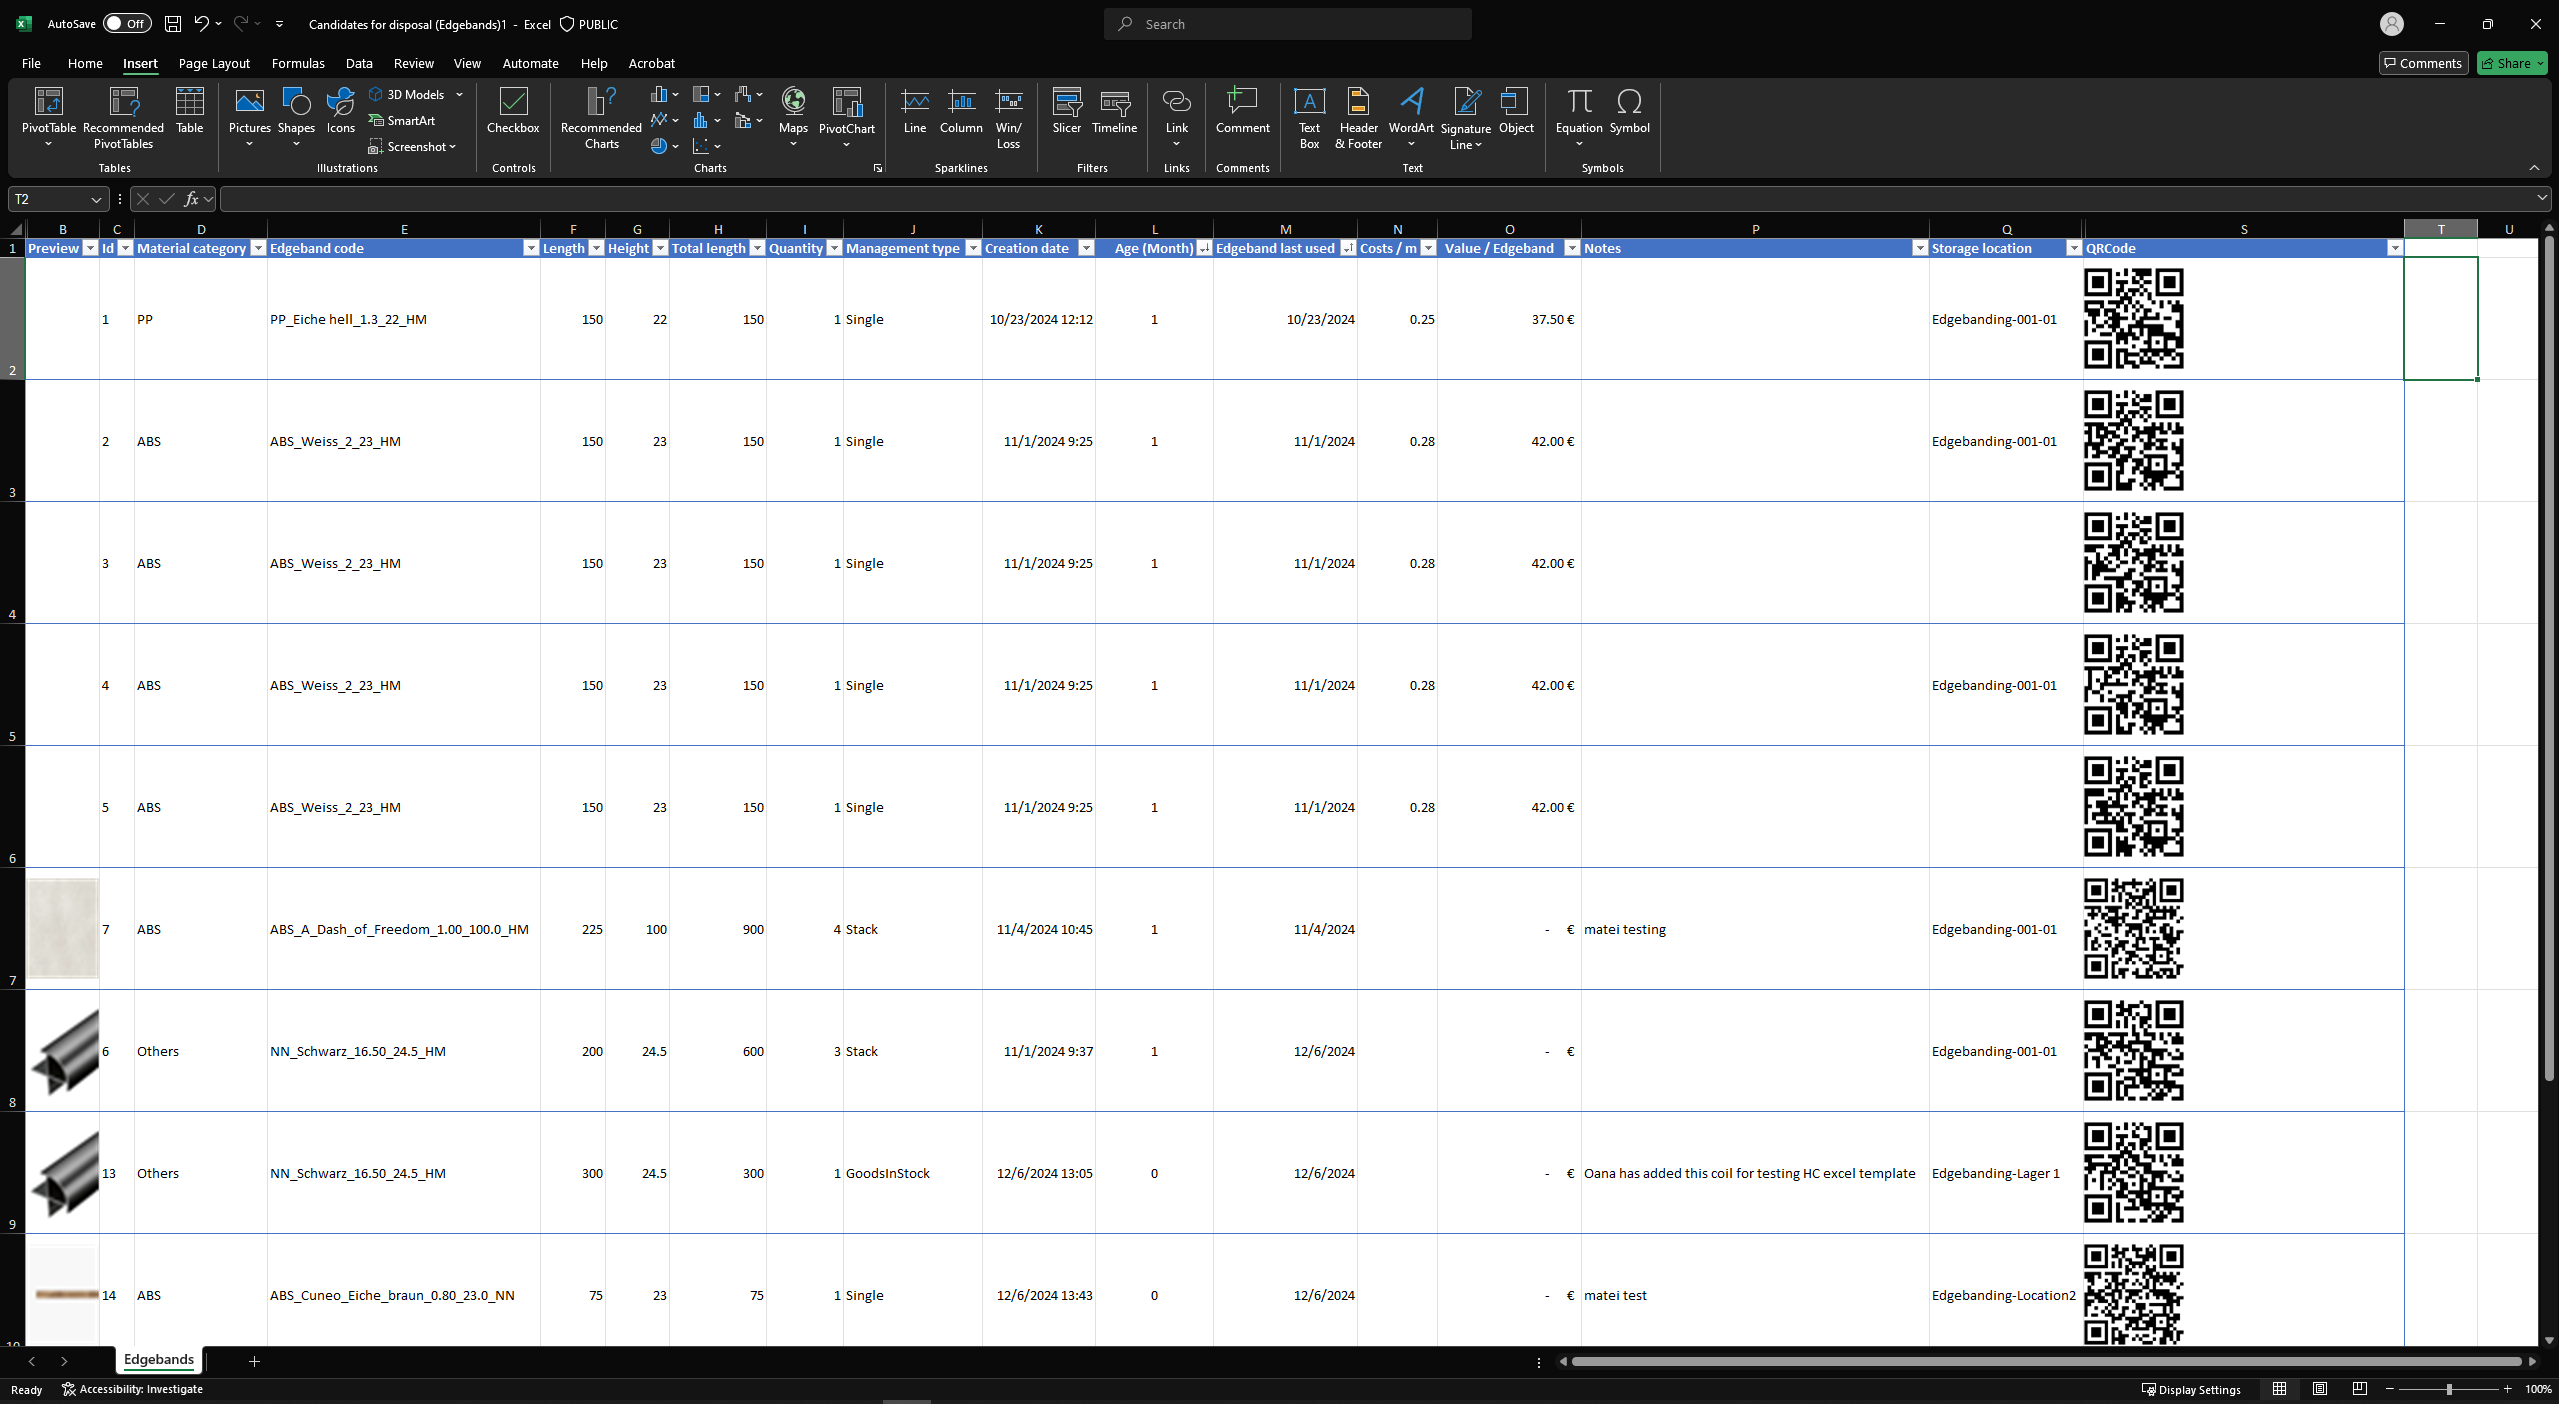
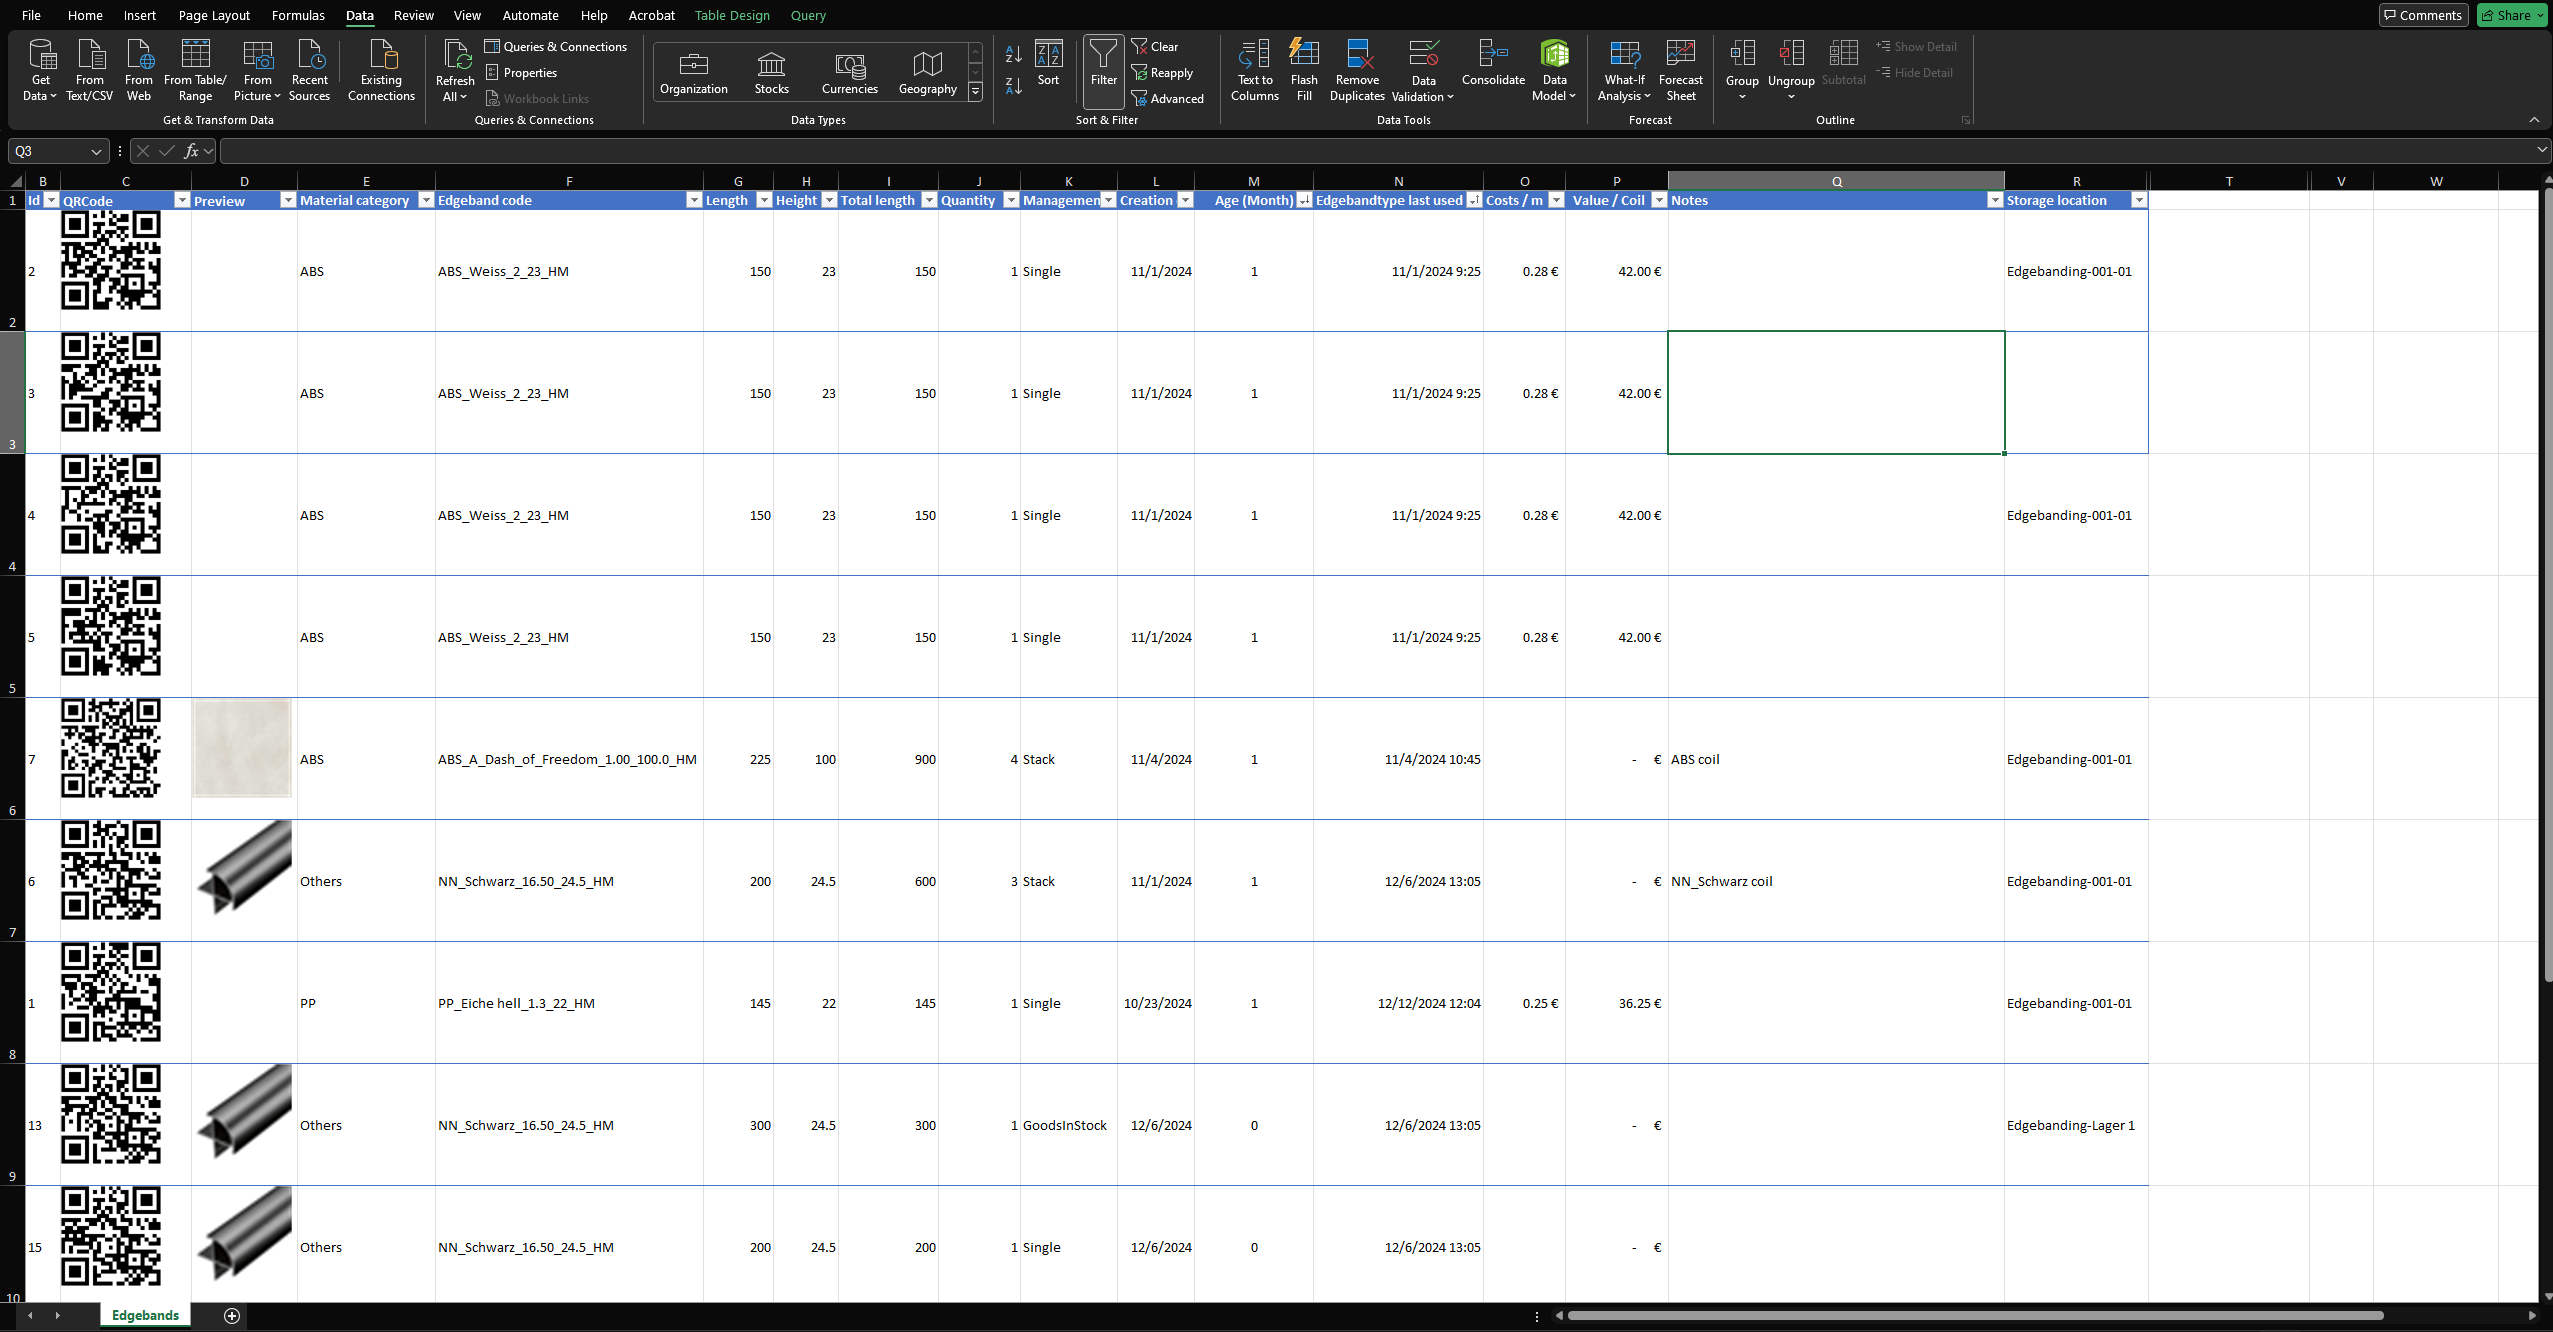
changing image and readme (#205)
* changed title

* changed imaged

* changed image

diff --git a/Applications/MaterialAssist/Samples/Statistics/Excel/Templates/DisposalCandidates/Readme_edgebands.md b/Applications/MaterialAssist/Samples/Statistics/Excel/Templates/DisposalCandidates/Readme_edgebands.md
@@ -1,4 +1,4 @@
-# Board disposal candidates
+# Edgeband disposal candidates
 
 English: [Candidates for disposal (Edgebands).xltx](Candidates%20for%20disposal%20(Edgebands).xltx)<br>
 German: [Kandidaten für die Entsorgung (Kantenband).xltx](Kandidaten%20für%20die%20Entsorgung%20(Kantenband).xltx)<br>
